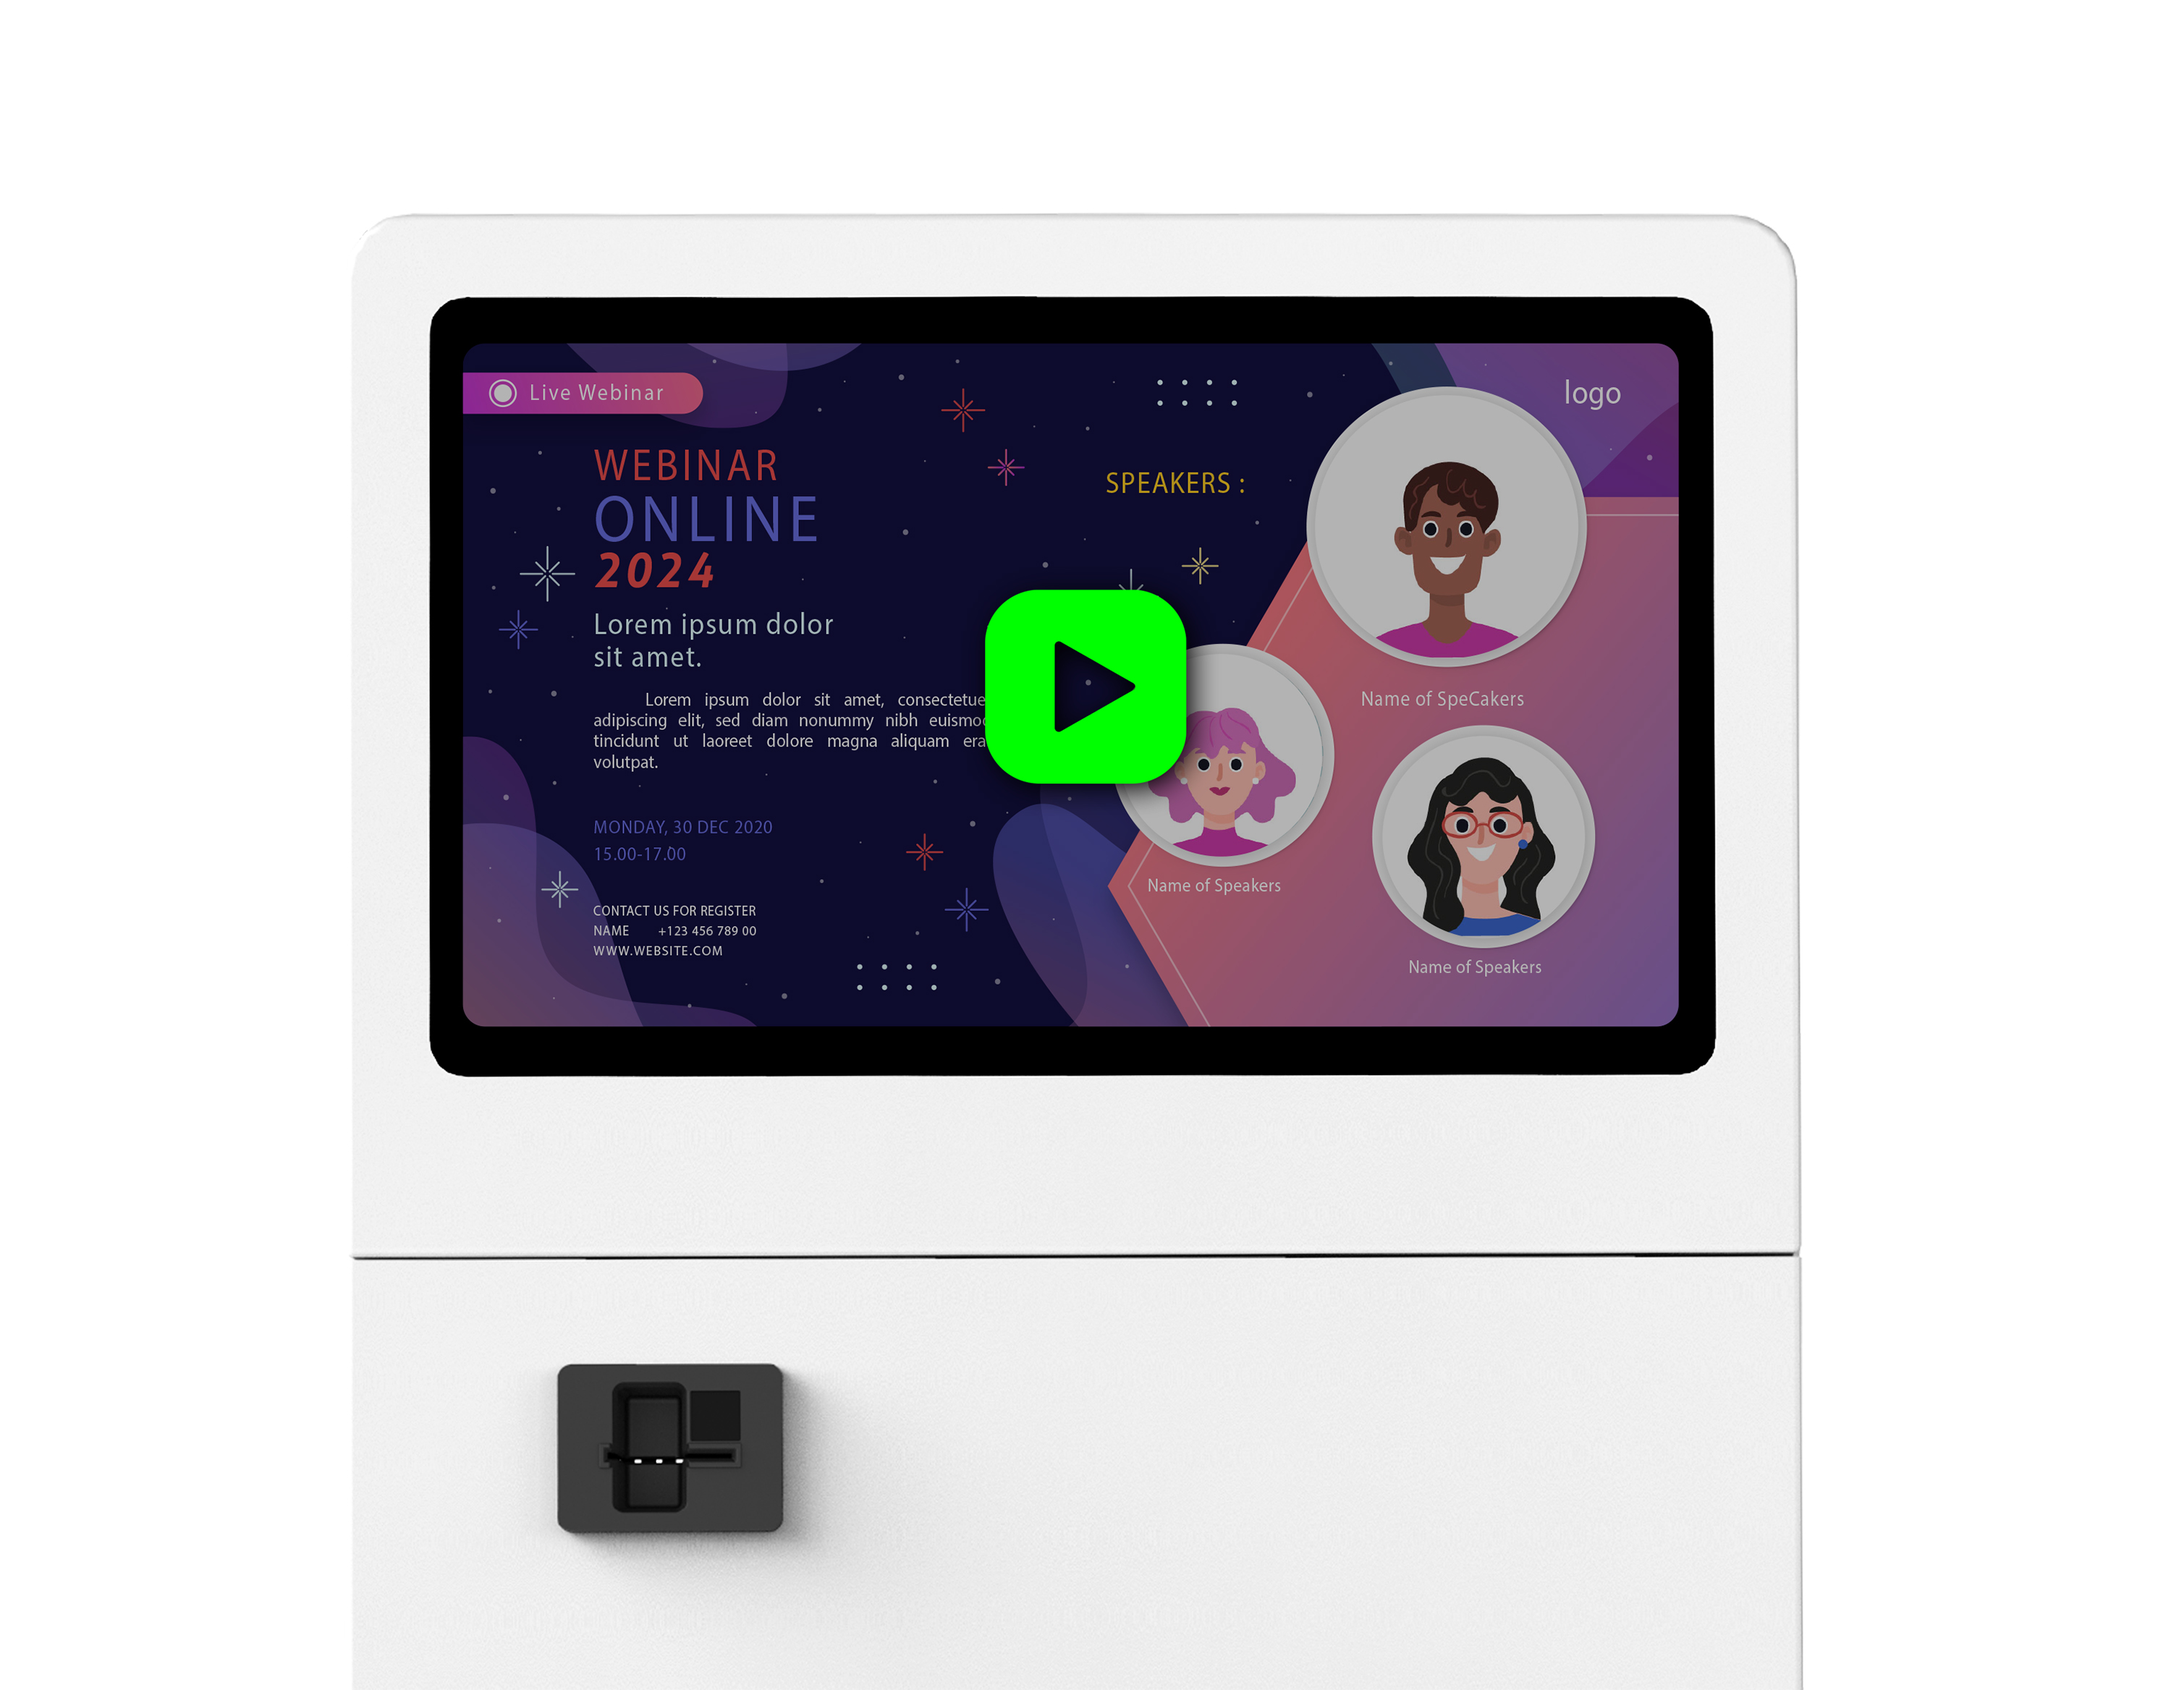
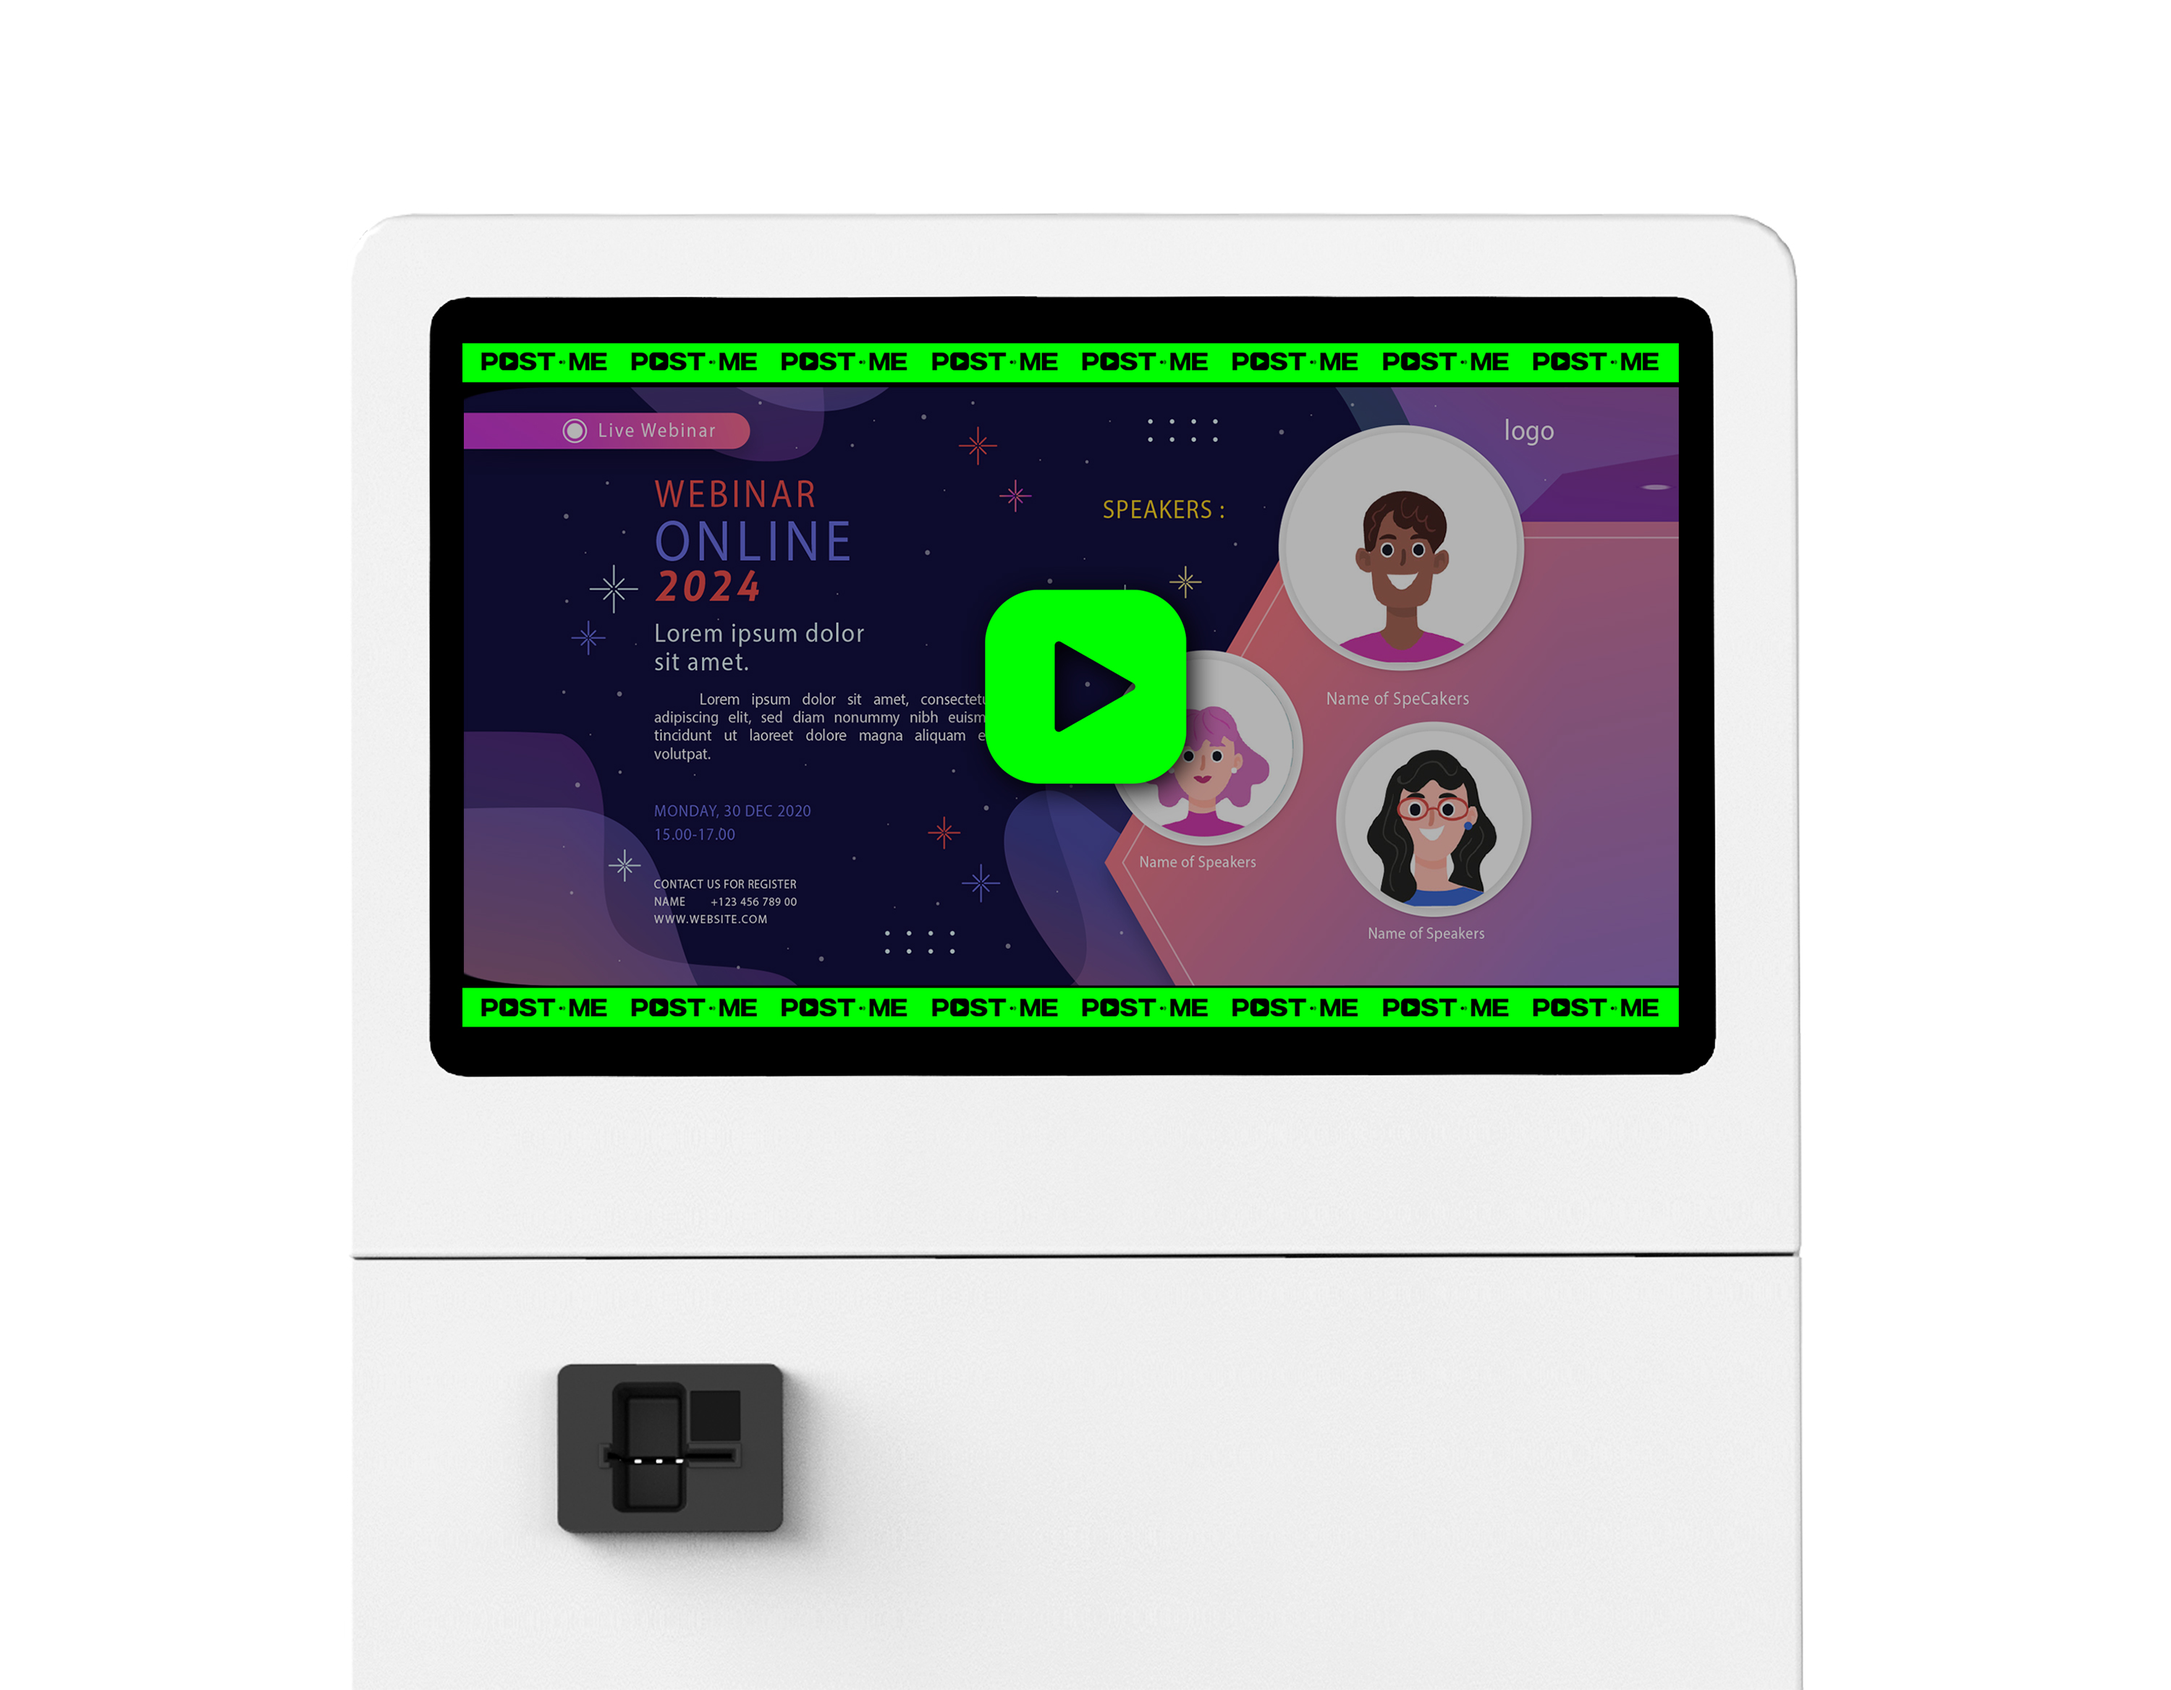
240919_update

Changed region(s): [[0.186, 0.1875, 0.775, 0.625], [0.496, 0.2812, 0.558, 0.3125]]

diff --git a/src/assets/styles/pm_style.css b/src/assets/styles/pm_style.css
@@ -2857,6 +2857,18 @@ body.menu-open {
     z-index: 2;
 }
 
+#Brand-AD {
+    position: relative;
+    top: -70px;
+    left: 51%;
+    transform: translateX(-50%) ;
+    width: 130%;
+    height: auto;
+    clip-path: inset(50px 88px 128px 80px);
+    z-index: 2;
+}
+
+
 .content4-2-buttons {
     position: relative;
     left: -30px;
